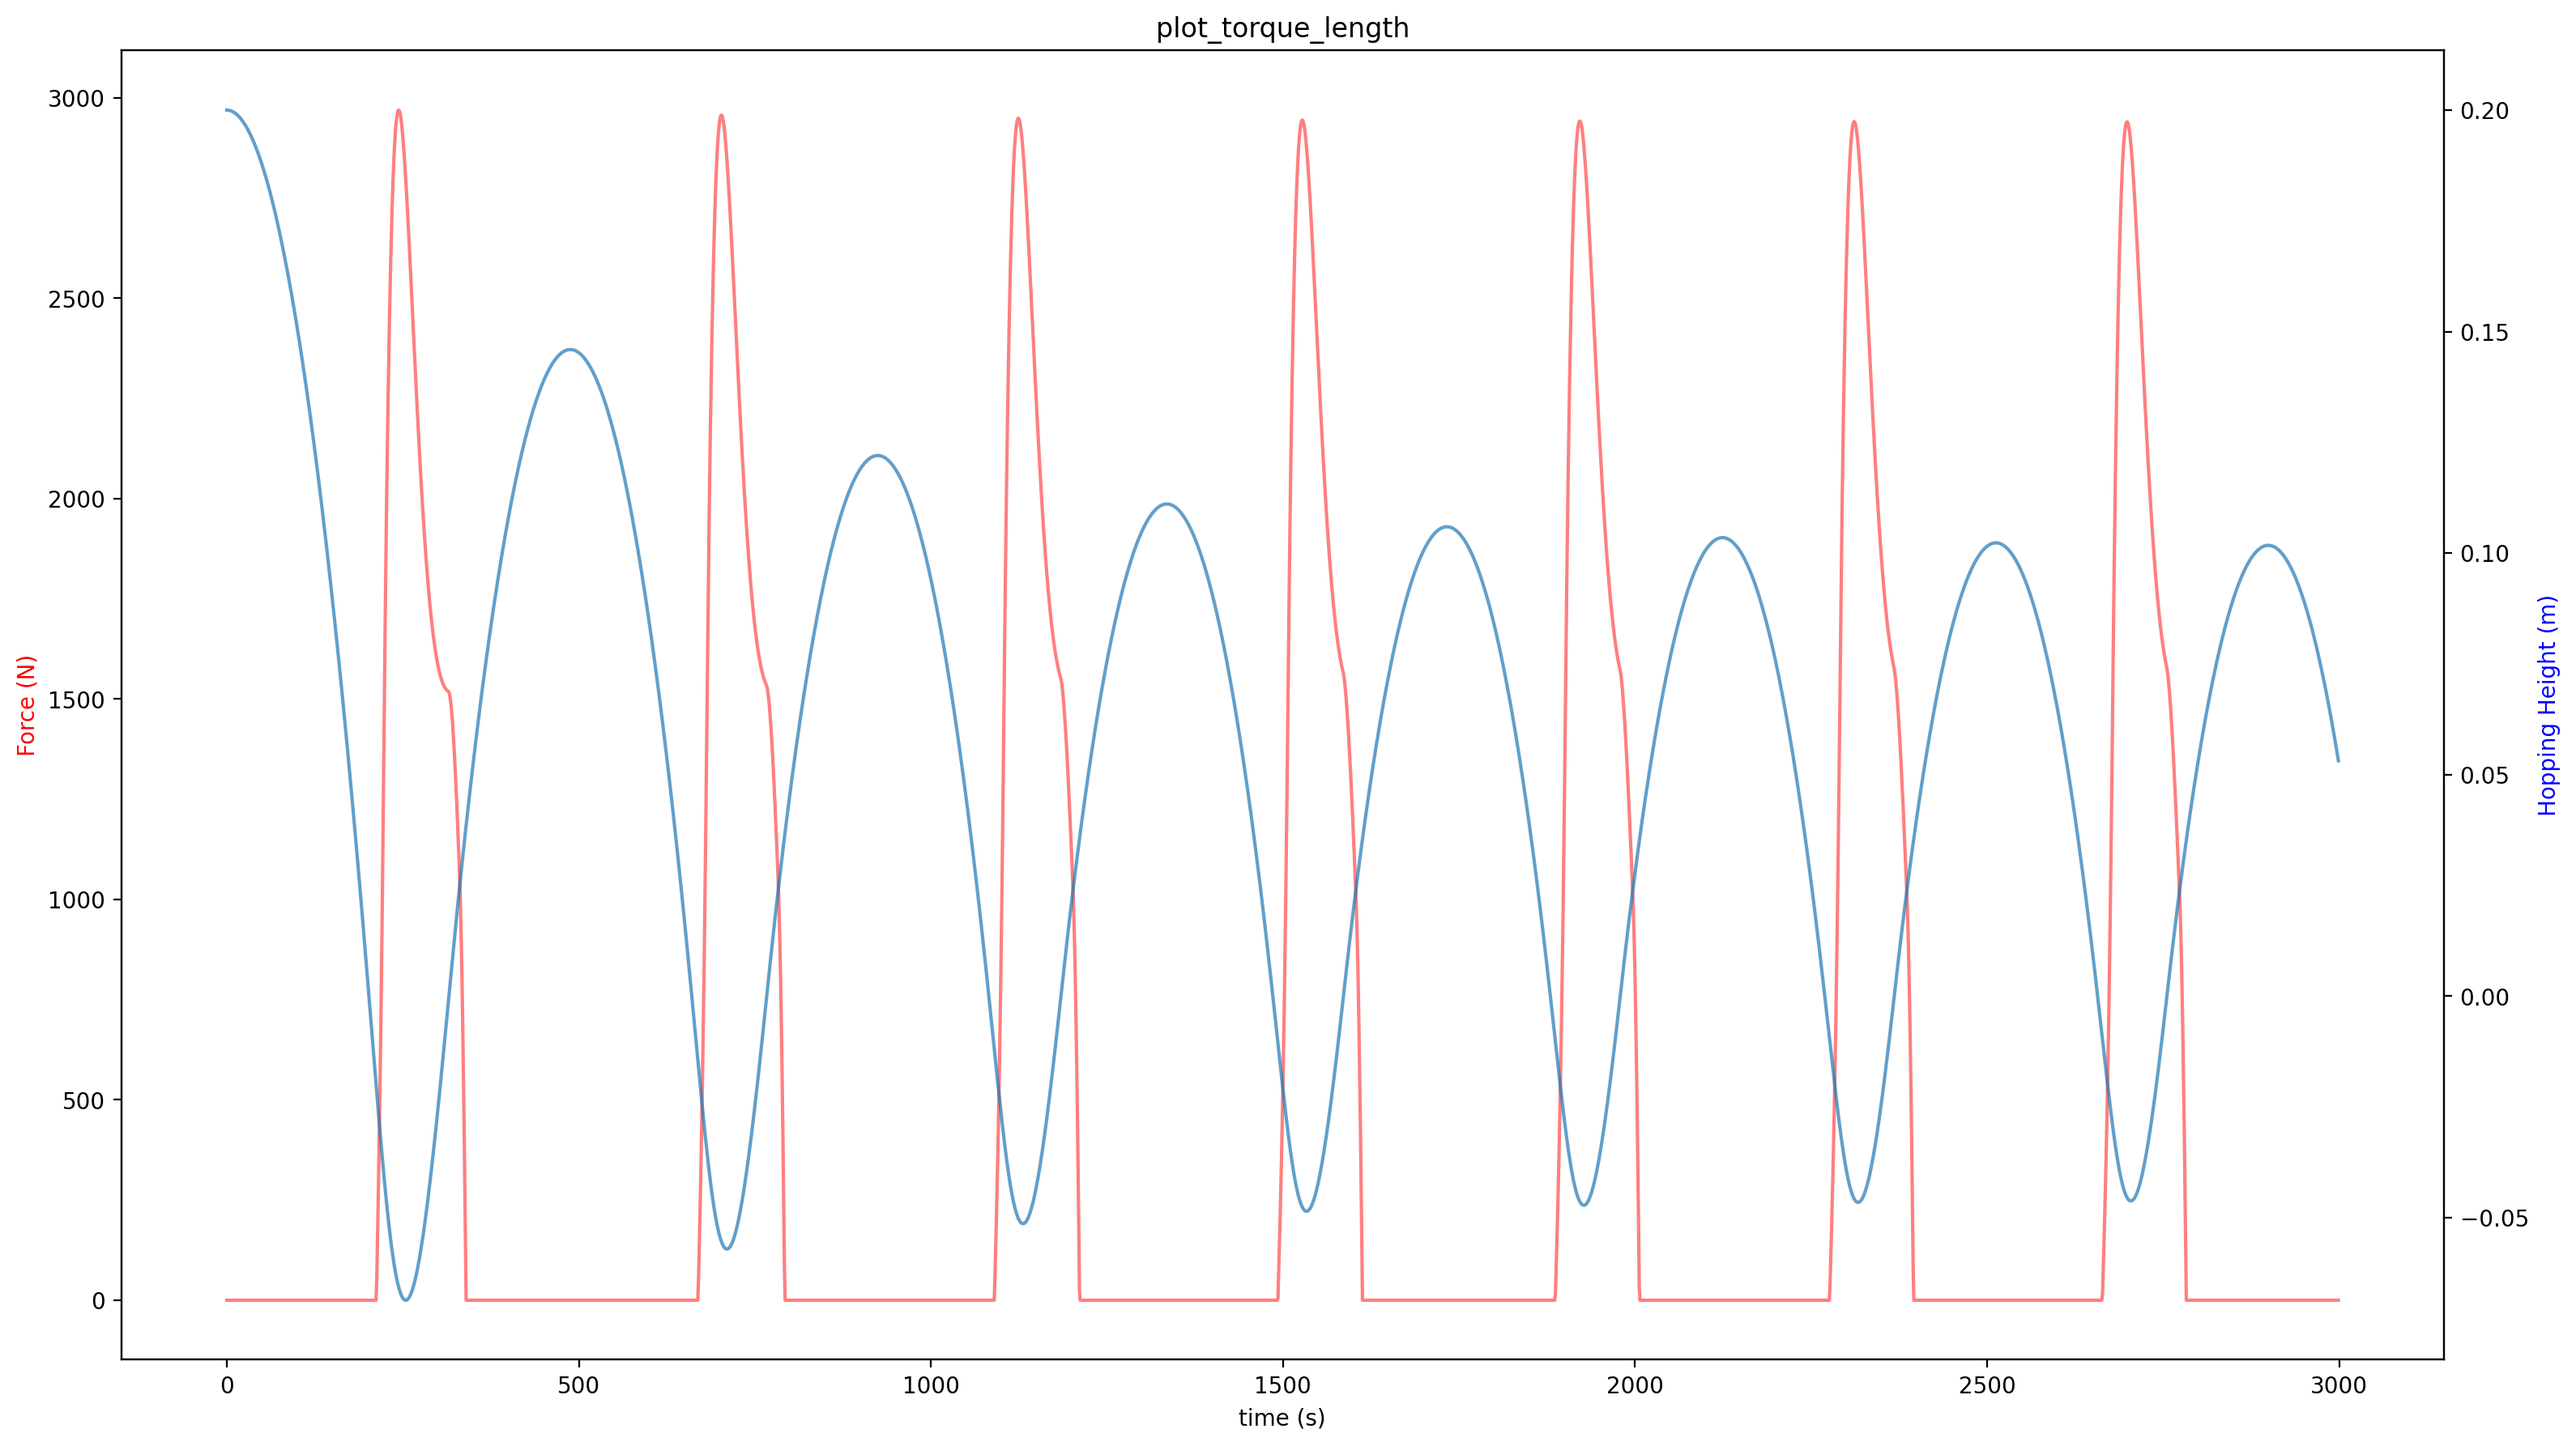
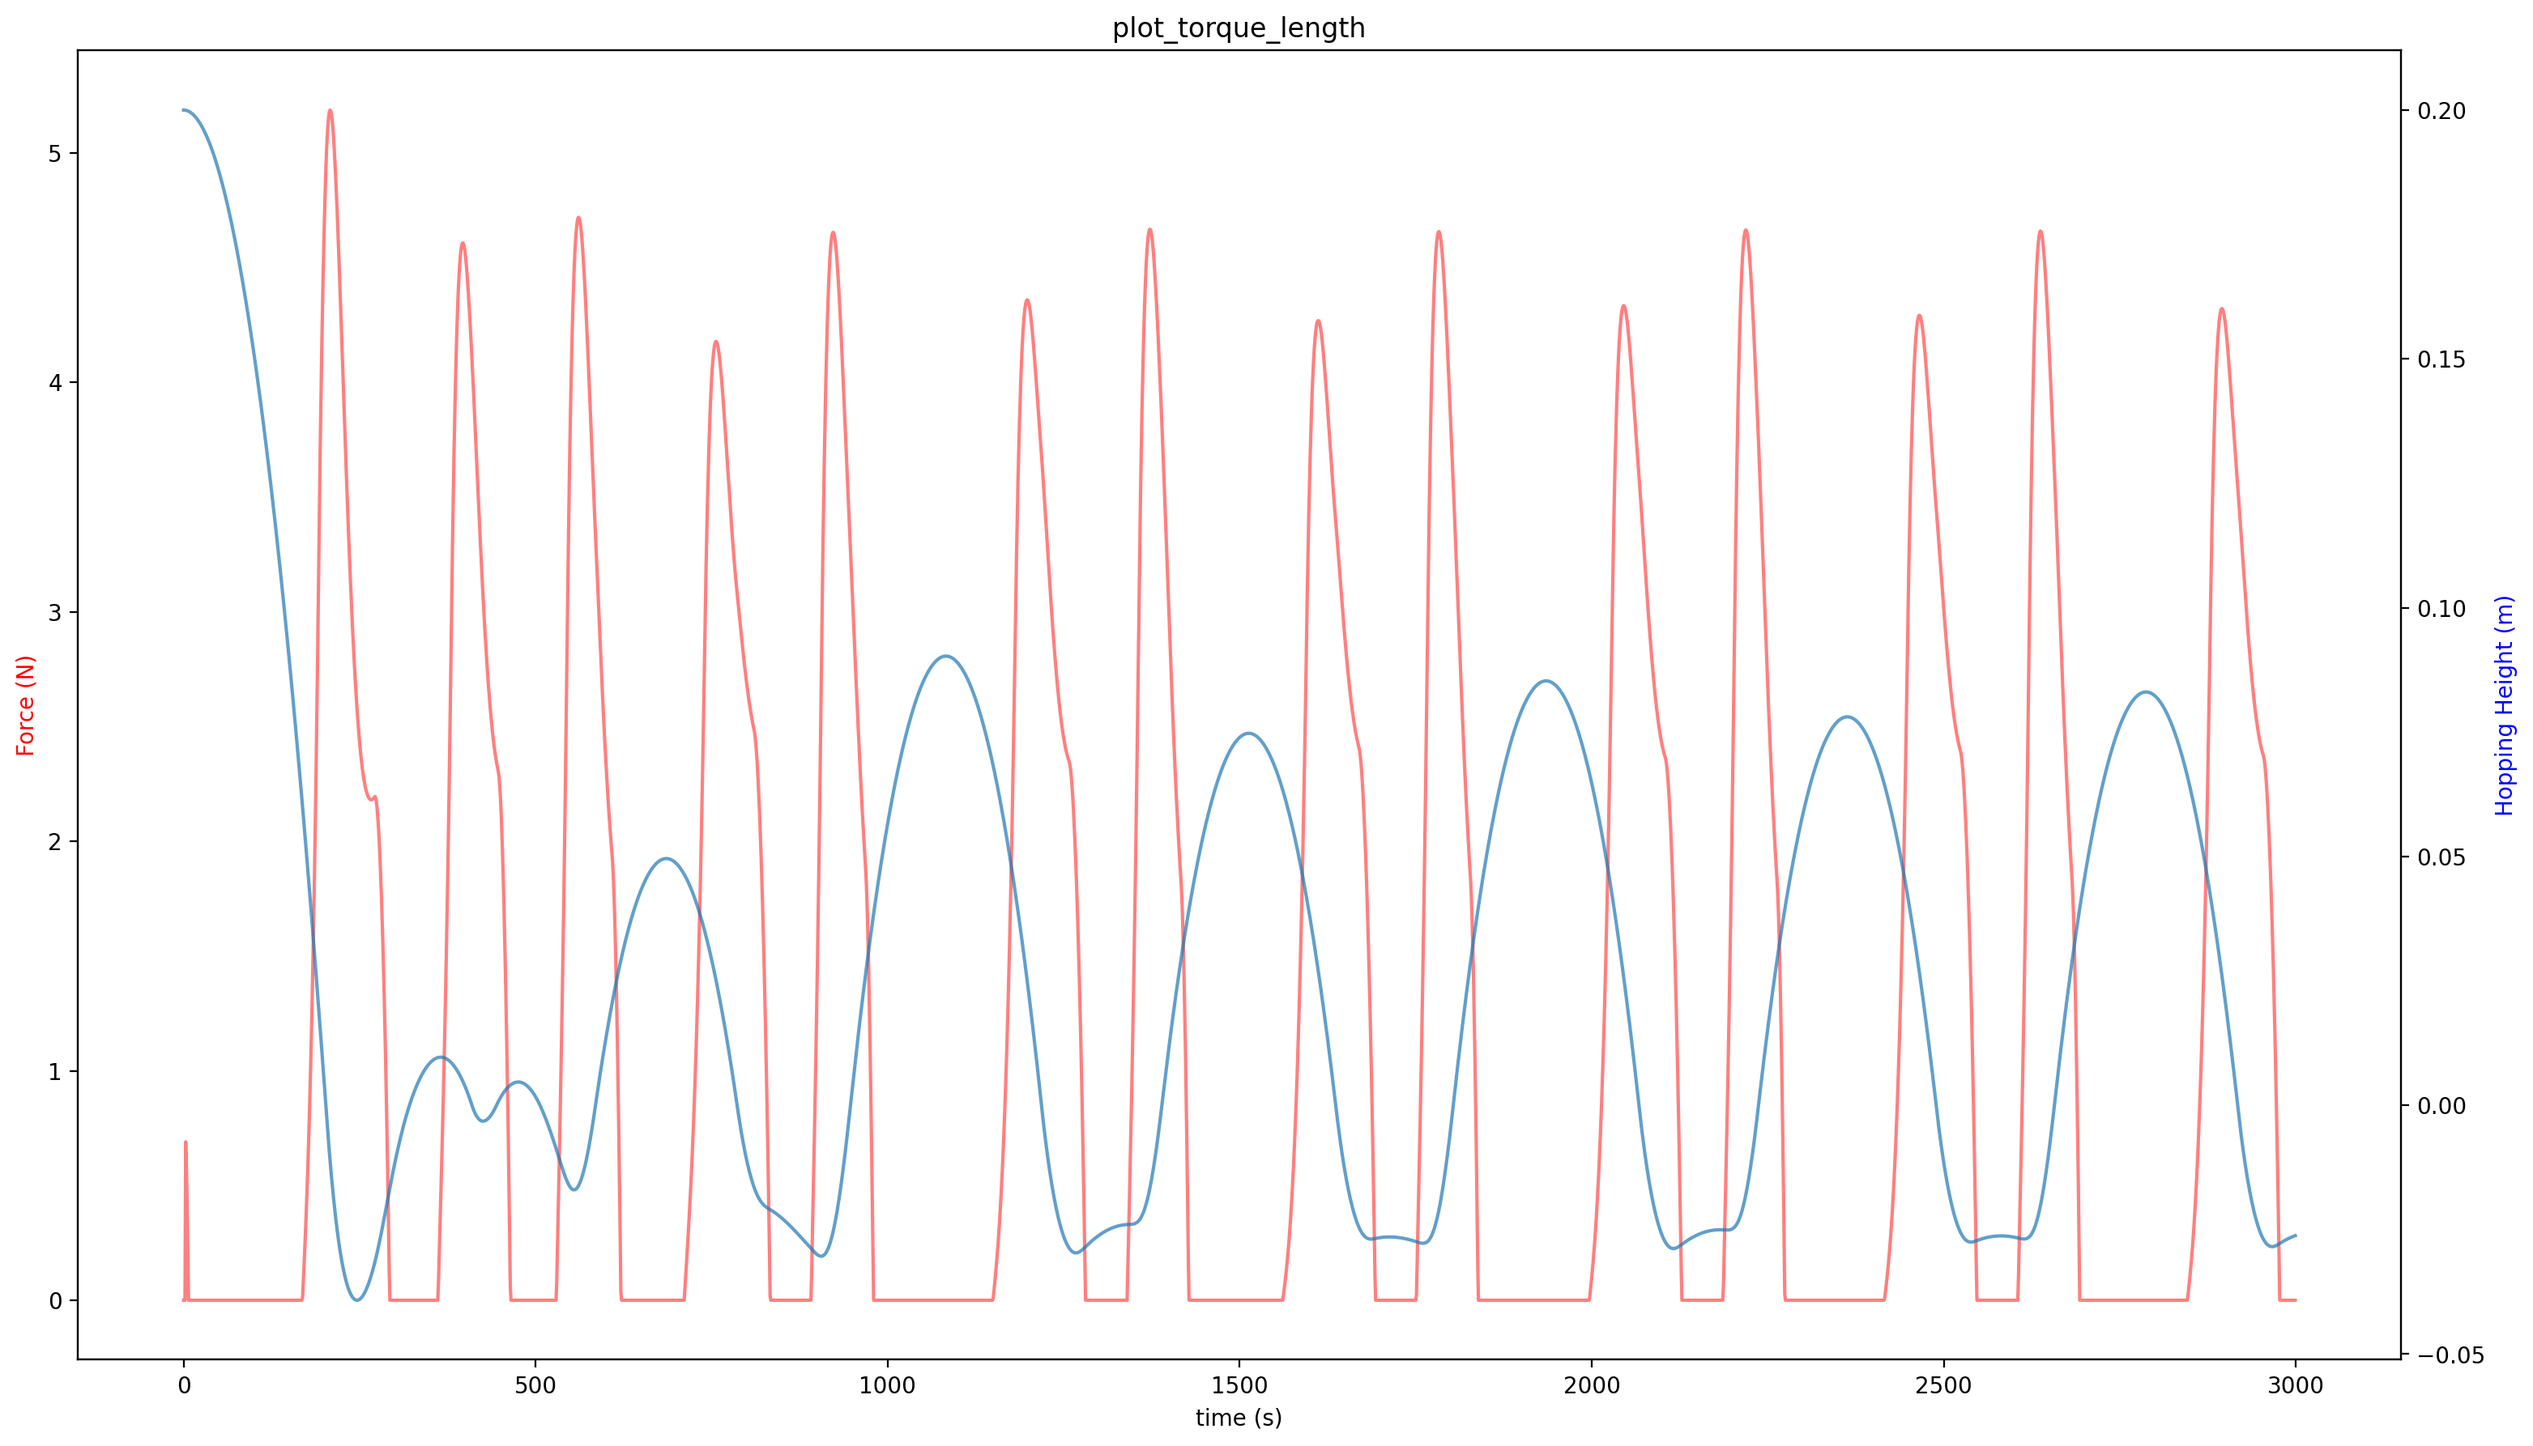
Assignment 7 triple pendulum

diff --git a/Matsuoka/tripple_pend_ex.py b/Matsuoka/tripple_pend_ex.py
@@ -1,0 +1,131 @@
+# -*- coding: utf-8 -*-
+"""
+Created on Thu Mar 11 11:25:26 2021
+
+@author: jsalm
+"""
+import matplotlib.pyplot as plt
+import numpy as np
+
+from sympy import symbols
+from sympy.physics import mechanics
+
+from sympy import Dummy, lambdify
+from scipy.integrate import odeint
+
+def integrate_pendulum(n, times, exforce = [],
+                       initial_positions=135,
+                       initial_velocities=0,
+                       lengths=None, masses=1):
+    """Integrate a multi-pendulum with `n` sections"""
+    #-------------------------------------------------
+    # Step 1: construct the pendulum model
+    
+    # Generalized coordinates and velocities
+    # (in this case, angular positions & velocities of each mass) 
+    q = mechanics.dynamicsymbols('q:{0}'.format(n))
+    u = mechanics.dynamicsymbols('u:{0}'.format(n))
+
+    # mass and length
+    m = symbols('m:{0}'.format(n))
+    l = symbols('l:{0}'.format(n))
+
+    # gravity and time symbols
+    g, t = symbols('g,t')
+    
+    #--------------------------------------------------
+    # Step 2: build the model using Kane's Method
+
+    # Create pivot point reference frame
+    A = mechanics.ReferenceFrame('A')
+    P = mechanics.Point('P')
+    P.set_vel(A, 0)
+
+    # lists to hold particles, forces, and kinetic ODEs
+    # for each pendulum in the chain
+    particles = []
+    forces = []
+    kinetic_odes = []
+
+    for i in range(n):
+        # Create a reference frame following the i^th mass
+        Ai = A.orientnew('A' + str(i), 'Axis', [q[i], A.z])
+        Ai.set_ang_vel(A, u[i] * A.z)
+
+        # Create a point in this reference frame
+        Pi = P.locatenew('P' + str(i), l[i] * Ai.x)
+        Pi.v2pt_theory(P, A, Ai)
+
+        # Create a new particle of mass m[i] at this point
+        Pai = mechanics.Particle('Pa' + str(i), Pi, m[i])
+        particles.append(Pai)
+
+        # Set forces & compute kinematic ODE
+        forces.append((Pi, exforce[i]*A.x+m[i] * g * A.x))
+        kinetic_odes.append(q[i].diff(t) - u[i])
+
+        P = Pi
+
+    # Generate equations of motion
+    KM = mechanics.KanesMethod(A, q_ind=q, u_ind=u,
+                               kd_eqs=kinetic_odes)
+    fr, fr_star = KM.kanes_equations(forces, particles)
+    
+    #-----------------------------------------------------
+    # Step 3: numerically evaluate equations and integrate
+
+    # initial positions and velocities – assumed to be given in degrees
+    y0 = np.deg2rad(np.concatenate([np.broadcast_to(initial_positions, n),
+                                    np.broadcast_to(initial_velocities, n)]))
+        
+    # lengths and masses
+    if lengths is None:
+        lengths = np.ones(n) / n
+    lengths = np.broadcast_to(lengths, n)
+    masses = np.broadcast_to(masses, n)
+
+    # Fixed parameters: gravitational , lengths, and masses
+    parameters = [g] + list(l) + list(m)
+    parameter_vals = [9.81] + list(lengths) + list(masses)
+
+    # define symbols for unknown parameters
+    unknowns = [Dummy() for i in q + u]
+    unknown_dict = dict(zip(q + u, unknowns))
+    kds = KM.kindiffdict()
+
+    # substitute unknown symbols for qdot terms
+    mm_sym = KM.mass_matrix_full.subs(kds).subs(unknown_dict)
+    fo_sym = KM.forcing_full.subs(kds).subs(unknown_dict)
+
+    # create functions for numerical calculation 
+    mm_func = lambdify(unknowns + parameters, mm_sym)
+    fo_func = lambdify(unknowns + parameters, fo_sym)
+
+    # function which computes the derivatives of parameters
+    def gradient(y, t, args):
+        vals = np.concatenate((y, args))
+        sol = np.linalg.solve(mm_func(*vals), fo_func(*vals))
+        return np.array(sol).T[0]
+
+    # ODE integration
+    return odeint(gradient, y0, times, tcrit = times, args=(parameter_vals,))
+
+def get_xy_coords(p, lengths=None):
+    """Get (x, y) coordinates from generalized coordinates p"""
+    p = np.atleast_2d(p)
+    n = p.shape[1] // 2
+    if lengths is None:
+        lengths = np.ones(n) / n
+    zeros = np.zeros(p.shape[0])[:, None]
+    x = np.hstack([zeros, lengths * np.sin(p[:, :n])])
+    y = np.hstack([zeros, -lengths * np.cos(p[:, :n])])
+    return np.cumsum(x, 1), np.cumsum(y, 1)
+
+def get_angles(p, lengths = None):
+    
+
+if __name__ == '__main__':
+    t = np.linspace(0, 10, 1000)
+    p = integrate_pendulum(n=2, times=t,exforce=[0,1])
+    x, y = get_xy_coords(p)
+    plt.plot(x, y);

diff --git a/Matsuoka/Matsuoka_muscle.py b/Matsuoka/Matsuoka_muscle.py
@@ -8,6 +8,7 @@ import os
 from scipy.fftpack import fft,fftfreq
 from scipy.integrate import odeint, RK45
 from scipy.signal import find_peaks
+import tripple_pend_ex as tpp
 
 dirname = os.path.dirname(__file__)
 save_bin = os.path.join(dirname,"save_bin")
@@ -198,7 +199,7 @@ class SpringMass():
         return dydt[0,0], dydt[1,0]
         """
         if y1 <= 0:
-            foft = func
+            foft = func*self.springgain
             dydt = y2
             dydtdt = foft/self.mc - (self.kc/self.mc)*y1-(self.cf/self.mc)*y2 - self.g
         else:
@@ -352,7 +353,7 @@ class Muscle_Mech(DomainFinder):
             #     if abs(avgfrq1[-2]-avgfrq2[-1]) < 0.1 and count == 0:
             #         print("reached steady state")
             
-    def hoping_model(self,matsuoka,springmass,affgain,n_i,coeff):
+    def hoping_model(self,matsuoka,springmass,affgain,n_i,coeff,plot=False):
         delay_ms = 1 #delay in ms
         time_delay = int(self.f_s/1000*delay_ms) #delay in samples based on sample rate
         print('starting diffeq solver...')
@@ -382,12 +383,46 @@ class Muscle_Mech(DomainFinder):
             #     bb += 1 
             #     avgfrq.append([self._avg_freq_profile(np.stack(matsuoka.storeX)[bb:ub,0],5),
             #                    self._avg_freq_profile(np.stack(matsuoka.storeX)[bb:ub,1],5)])
-
-        Xp = springmass.plot_store()
-        matsuoka.plot_store(self.t_ms,'coeff_{}'.format(coeff),"Mass Height (m)")
-        self.plot_torque_spring(springmass)
-        plt.waitforbuttonpress()
-        return 0
+        if plot:
+            Xp = springmass.plot_store()
+            matsuoka.plot_store(self.t_ms,'coeff_{}'.format(coeff),"Mass Height (m)")
+            self.plot_torque_spring(springmass)
+            plt.waitforbuttonpress()
+        else:
+            return 0
+    
+    def three_pend_model(self,matsuoka1,matsuoka2):
+        delay_ms = 1 #delay in ms
+        time_delay = int(self.f_s/1000*delay_ms) #delay in samples based on sample rate
+        print('starting diffeq solver...')
+        ub = 0
+        bb = 0
+        count = 0
+        avgfrq = []
+        for i in range(0,len(self.t_ms)-1):
+            #Initia time and Pendulum diffeq
+            t_ms = [self.t_ms[i],self.t_ms[i+1]]
+            t_s = [self.t_s[i],self.t_s[i+1]]            
+            Xp = tpp.integrate_pendulum(n=2, times=t_s)   
+            ub += 1
+            #delay iteration of force from muscle and activation of neurons
+            if i > time_delay:
+                mats_X = [matsuoka1.solve(t_ms,Xp[-1,1]),matsuoka1.solve(t_ms,Xp[-1,1])]                
+                y = self.stim(mats_X[-1,0],mats_X[-1,1])
+                pendulum.force = self.muscle_torque(y)     
+            else:
+                matsuoka.storeX.append(n_i)
+                matsuoka.storeoc.append(0)
+                pendulum.force = 0
+                self.storeT.append(0)
+                self.storeL.append([0,0])
+            #judging steady states using average frequency of top 5 peaks
+            # if ub > 500:
+            #     bb += 1 
+            #     avgfrq1.append(self._avg_freq_profile(np.stack(matsuoka.storeX)[bb:ub,0],5,self.f_s))
+            #     avgfrq2.append(self._avg_freq_profile(np.stack(matsuoka.storeX)[bb:ub,1],5,self.f_s))
+            #     if abs(avgfrq1[-2]-avgfrq2[-1]) < 0.1 and count == 0:
+            #         print("reached steady state")        
     
     def plot_torque_spring(self,spring):
         torque = np.stack(self.storeT)
@@ -441,12 +476,12 @@ if __name__ == "__main__":
     coeffspring = [20000,63.5,0,.17,1] # kc, mc, ac, dc, spring_gain
     initial_cond_mats = np.array([np.pi/7,np.pi/14,0,0])
     initial_cond_spring = [.2,0]
-    mgain = 800
+    mgain = 1.65
     
     mech = Muscle_Mech(mgain)
     mats = Matsuoka(initial_cond_mats,coeff,initial_cond_spring[0])
     springmass = SpringMass(mech.t_s,initial_cond_spring,coeffspring)    
-    mech.hoping_model(mats,springmass,20,initial_cond_mats,coeff)
+    mech.hoping_model(mats,springmass,20,initial_cond_mats,coeff,True)
     plt.close('all')
     
 

diff --git a/Matsuoka/Matsuoka_hoper.py b/Matsuoka/Matsuoka_hoper.py
@@ -18,9 +18,9 @@ if __name__ == '__main__':
 
     initial_cond_mats = np.array([np.pi/7,np.pi/14,0,0])
     initial_cond_spring = [.2,0]
-    iterable = np.arange(30,100,2)
-    coeff_name = 'h1_3'
-    fname = 'h1_3 vs frequency'
+    iterable = np.arange(0,30,.5)
+    coeff_name = 'B'
+    fname = 'B vs frequency'
     avgfrq = []
     ampstore = []
     
@@ -29,12 +29,12 @@ if __name__ == '__main__':
     frqstore = []
     #Loop
     for j in iterable:
-        coeff = [2,2.5,j,j,22,22*3,6] #bc, wc, h1, h2, t1, t2, c1
+        coeff = [j,2.5,35,35,17.5,17.5*3,6] #bc, wc, h1, h2, t1, t2, c1
         coeffspring = [20000,63.5,0,.17,1] # kc, mc, ac, dc, spring_gain
-        mech = mm.Muscle_Mech(500)
+        mech = mm.Muscle_Mech(1.65)
         mats = mm.Matsuoka(initial_cond_mats,coeff,initial_cond_spring[0])
         springmass = mm.SpringMass(mech.t_s,initial_cond_spring,coeffspring)    
-        mech.hoping_model(mats,springmass,20,initial_cond_mats,coeff)
+        mech.hoping_model(mats,springmass,20,initial_cond_mats,coeff,False)
         plt.close('all')
         X = np.stack(mats.storeX)
         frqstore.append([mech._avg_freq_profile(X[:,0],maxpeaks),mech._avg_freq_profile(X[:,1],maxpeaks)])
